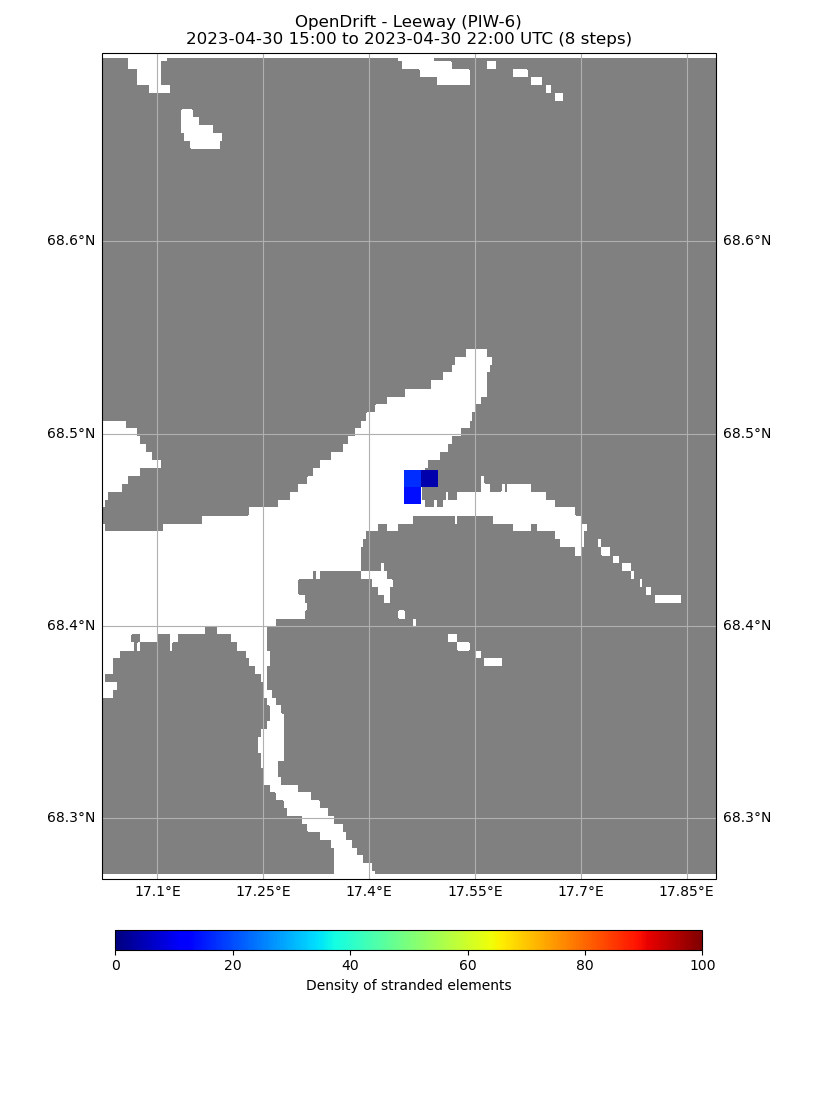
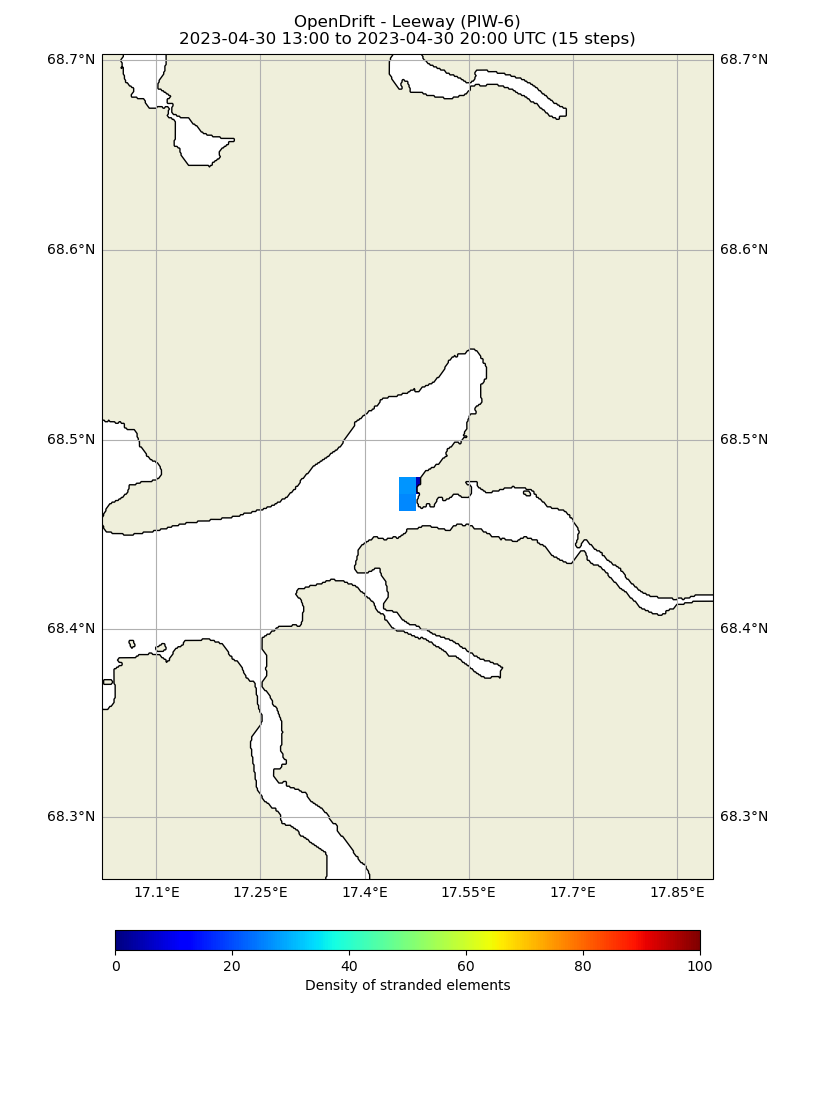
Oppdaterte bilder

diff --git a/leeway.py b/leeway.py
@@ -20,7 +20,7 @@ if choice == 0:
     year = 2023
     month = 4
     day = 30
-    hour = 15
+    hour = 13
     minute = 0
     second = 0
     sim_time = 7
@@ -81,7 +81,7 @@ lw.seed_elements(lon=longitude, lat=latitude, radius=sim_radius, number=sim_obje
 # %%
 # Running model
 lw.run(duration=timedelta(hours=sim_time),
-       time_step=900, time_step_output=3600)
+       time_step=900, time_step_output=1800)
 
 # %%
 # Print and plot results
@@ -92,7 +92,8 @@ print(lw)
 # Note that drift is also depending on wind, which is not shown.
 lw.animation(background=['x_sea_water_velocity', 'y_sea_water_velocity'],
              skip=5,  # show every 5th vector
-             cmap=cmocean.cm.speed, vmin=0, vmax=1.0, bgalpha=.7, land_color='#666666', fast=True, filename='/home/lars/Documents/droppdukke/animasjon.gif')
+             cmap=cmocean.cm.speed, vmin=0, vmax=1.0, bgalpha=.7, land_color='#666666', fast=False,
+             filename='/home/lars/Documents/droppdukke/animasjon.gif')
 
 # %%
 # .. image:: /gallery/animations/example_leeway_0.gif
@@ -104,6 +105,6 @@ lw.plot(fast=False, filename='/home/lars/Documents/droppdukke/end.png')
 d, dsub, dstr, lon, lat = lw.get_density_array(pixelsize_m=1000)
 strand_density = xr.DataArray(
     dstr[-1, :, :], coords={'lon_bin': lon[0:-1], 'lat_bin': lat[0:-1]})
-lw.plot(fast=True, background=strand_density.where(strand_density > 0),
+lw.plot(fast=False, background=strand_density.where(strand_density > 0),
         vmin=0, vmax=100, clabel='Density of stranded elements',
         show_elements=False, linewidth=0, filename='/home/lars/Documents/droppdukke/density.png')
